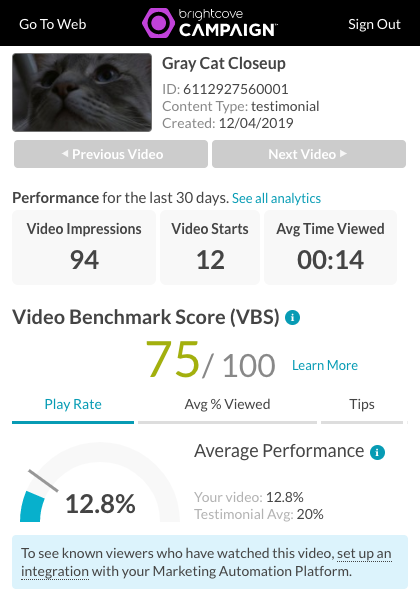
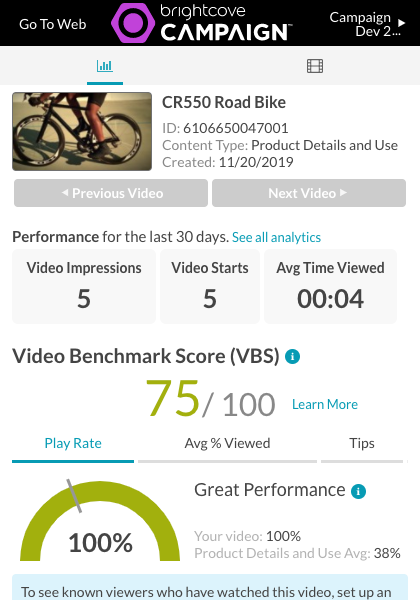
updates to HUD

diff --git a/videos/managing-videos2.html b/videos/managing-videos2.html
@@ -1,0 +1,102 @@
+---
+title: Managing Videos
+parent: Managing Videos
+---
+<article class="bcls-article">
+  <h1>Managing Videos</h1>
+  <section class="bcls-section">
+    <p>To access the videos in the account, login to <a href="https://studio.brightcove.com/products/brightcovecampaign">Brightcove Campaign&trade;</a> and click <strong>Videos</strong> in the navigation header.</p>
+    <figure class="bcls-figure"><img class="bcls-image--no-border" alt="" src="/assets/images/videos/videos-homepage.png" /></figure>
+    <p>The body of the page will display the following:</p>
+    <ul>
+      <li>Video thumbnail and duration </li>
+      <li>Video name</li>
+      <li>Video ID - System assigned video ID (unique across all accounts)</li>
+      <li>Status
+        <ul>
+          <li><img alt="" src="/assets/images/videos/activate-icon.png" /> - Indicates the video is active</li>
+          <li><img alt="" src="/assets/images/videos/deactivate-icon.png" /> - Indicates the video is inactive (can't be played)</li>
+        </ul>
+      </li>
+      <li><a href="/get-started/overview-video-content-types.html">Video Content Type</a></li>
+      <li><a href="#audit">Created date and time and user ID</a></li>
+      <li><a href="#audit">Updated date and time and user ID</a></li>
+    </ul>
+    <p>Multiple videos can be selected by clicking on a checkbox next to the video thumbnail and then shift-clicking on another checkbox. The list of videos can be sorted by clicking on a column header. The Videos page uses a "sticky" sort and will remember the sort selection. When you navigate away and come back or login again, the Videos page  will default to the sort that was last selected.</p>
+    <p>The button bar at the top of the page provides the ability to:</p>
+    <ul>
+      <li><a href="#publish">Publish</a> - Publish videos to a web page or Email</li>
+      <li><a href="#content-type">Edit Content Type</a> - Assign a Video Content Type to videos</li>
+      <li><a href="#upload">Upload</a> - Upload videos to the account</li>
+      <li><a href="#activate">Activate/Deactivate</a> - Activate or Deactivate videos</li>
+      <li><a href="#delete">Delete</a> - Remove videos from the account </li>
+    </ul>
+    <figure class="bcls-figure"><img class="bcls-image--no-border" alt="" src="/assets/images/videos/videos-button-bar.png" /></figure>
+  </section>
+  <section class="bcls-section">
+    <h2 id="edit">Editing video properties</h2>
+    <p>To edit the video properties, click on the video name to open the video properties page. See <a href="/docs/videos/editing-video-properties.html">Editing Video Properties</a> for information on editing video properties.</p>
+  </section>
+  <section class="bcls-section">
+    <h2 id="publish">Publishing videos</h2>
+    <p>The Publish feature in Brightcove Campaign can be used to easily generate the embed code and images needed to distribute a video using a marketing automation platform (MAP). For information on publishing videos, see <a href="/docs/videos/publishing-videos.html">Publishing Videos</a>.</p>
+  </section>
+  <section class="bcls-section">
+    <h2 id="content-type">Editing content types</h2>
+    <p>The <strong>Video Content Type</strong> column on the Videos page displays the Video Content Type for the video. Brightcove uses the Video Content Type to compile your analytics with those of similar videos and provide more robust analytics that includes Brightcove's Video Benchmark Score (VBS) and customized advice. To assign a Video Content Type to one or more videos:</p>
+    <ol class="bcls-tasklist-restart">
+      <li>Select one or more videos by clicking the checkbox next to the video(s).</li>
+      <li>Click <strong>Edit Content Type</strong>.</li>
+      <li>Select a content type for the selected videos.</li>
+      <li>Click <strong>Save</strong>.</li>
+    </ol>
+    <aside class="bcls-aside bcls-aside--information">Note: While Brightcove recommends assigning Video Content Types to all videos, this field can be disabled as part of the <a href="/docs/admin/managing-account-settings.html">account settings</a>.</aside>
+  </section>
+  <section class="bcls-section">
+    <h2 id="upload">Uploading videos</h2>
+    <p>For information on uploading videos to the account, see <a href="/docs/videos/uploading-videos.html">Uploading Videos</a>.</p>
+  </section>
+  <section class="bcls-section">
+    <h2 id="activate">Activating and Deactivating videos</h2>
+    <p>The <strong>Status</strong> column on the Videos page indicates if the video is <strong>Activated</strong> or <strong>Deactivated</strong>.</p>
+    <ul>
+      <li><img alt="" src="/assets/images/videos/activate-icon.png" /> - Indicates the video is active (video can be played)</li>
+      <li><img alt="" src="/assets/images/videos/deactivate-icon.png" /> - Indicates the video is inactive (video can't be played)</li>
+    </ul>
+    <p>To <strong>Activate</strong> a video, select it and then click <strong>Activate</strong>. To <strong>Deactivate</strong> a video, select it and then click <strong>Deactivate</strong>. If the <strong>Status</strong> column is not displayed, use the column selector <img alt="" src="/assets/images/videos/column-selector.png" /> to select it. </p>
+  </section>
+  <section class="bcls-section">
+    <h2 id="share">Sharing videos to other accounts</h2>
+    <p>Media sharing allows publishers with Brightcove Video Cloud accounts to share the videos to Brightcove Campaign accounts. The accounts can be your own, corporate accounts or accounts of other publishers. The video thumbnail will display an arrow in the upper left to indicate  that the video was shared into the account. In the example below, the  Brightcove Overview video was shared into this account.</p>
+    <figure class="bcls-figure"><img class="bcls-image--no-border" alt="" src="/assets/images/videos/sharing-example.png" /></figure>
+    <p>For more information on working with shared videos, see <a href="/docs/videos/working-with-shared-videos.html">Working with Shared Videos</a>.</p>
+  </section>
+  <section class="bcls-section">
+    <h2 id="delete">Deleting videos</h2>
+    <p>To delete videos, click the checkboxes next to the video thumbnails of the videos to delete and then click the delete button (<img alt="" src="/assets/images/videos/delete-icon.png" />). Confirm the delete by clicking the <strong>Delete</strong> button.</p>
+    <figure class="bcls-figure"><img class="bcls-image--no-border" alt="" src="/assets/images/videos/confirm-delete.png" /></figure>
+    <figure class="bcls-figure"></figure>
+    <figure class="bcls-figure"></figure>
+  </section>
+  <section class="bcls-section">
+    <h2 id="audit">Created and updated date and time information</h2>
+    <p>The user ID of the user who created and/or updated the video will be displayed in the Created Date/Updated Date columns. Note that if a user who performed an action is removed from an account, their ID will still appear.</p>
+    <p>There are cases where changes made to a video will not record a user ID and cases where a user ID may not be displayed:</p>
+    <ul>
+      <li>When the video source is replaced, the updated date for the video will be updated but the user who initiated the action will not be recorded</li>
+      <li>When the images (poster/thumbnail) and/or text tracks are updated, the updated date for the video will be updated but the user who initiated the action will not be recorded</li>
+    </ul>
+  </section>
+  <section class="bcls-section">
+    <h2 id="search">Searching for videos</h2>
+    <p>The Search field can be used to search the videos and playlists in your account. For more information, see <a href="/docs/videos/how-to-search-for-videos.html">How to Search for Videos</a>.</p>
+  </section>
+  <section class="bcls-section">
+    <h2 id="columns">Customizing the column display</h2>
+    <p>The columns that appear in the body of the page can be customized by clicking on the columns button (<img alt="" src="/assets/images/videos/column-selector.png" />) and then selecting the columns that should be displayed.</p>
+    <figure class="bcls-figure"><img class="bcls-image--no-border" alt="" src="/assets/images/videos/select-columns.png" /></figure>
+    <p>As more columns are selected, it is possible to horizontally scroll to see all of the columns.</p>
+  </section>
+</article>
+<!-- End of content -->
+</body></html>

diff --git a/analytics/using-hud.html b/analytics/using-hud.html
@@ -6,8 +6,14 @@ parent: Reviewing Analytics
   <h1>Using the Heads-Up Display Chrome Extension</h1>
   <summary>In this topic you will learn how to install and use the Heads-Up Display (HUD) Chrome browser extension.</summary>
   <section class="bcls-section">
-    <p>The Heads-Up Display (HUD) is a Chrome extension that provides the ability to view performance metrics of videos on a live page.</p>
-    <figure class="bcls-figure"><img class="bcls-image--no-border" alt="" src="/assets/images/analytics/hud-analytics.png" /></figure>
+    <p>The Heads-Up Display (HUD) is a Chrome extension that provides the ability to:</p>
+    <ul>
+      <li> View performance metrics of videos on a live page</li>
+      <li>Publish, edit and delete videos in your account</li>
+    </ul>
+    <p>
+      <figure class="bcls-figure"><img class="bcls-image--no-border" alt="" src="/assets/images/analytics/hud-analytics.png" /></figure>
+    </p>
   </section>
   <section class="bcls-section">
     <h2 id="install">Installing the Chrome extension</h2>
@@ -23,7 +29,7 @@ parent: Reviewing Analytics
   </section>
   <section class="bcls-section">
     <h2 id="using">Using the Heads-Up Display</h2>
-    <p>The Heads-Up Display is useful for viewing video analytics when a video that was published using Brightcove Campaign&trade; is on the page. To use the HUD, follow these steps:</p>
+    <p>The Heads-Up Display is useful for viewing video analytics and for publishing, editing and deleting videos in your account. To use the HUD, follow these steps:</p>
     <ol class="bcls-tasklist-restart" style="--s:1">
       <li>Open Google Chrome.</li>
       <li>Click the Brightcove logo next to the address bar to open the extension.
@@ -33,11 +39,16 @@ parent: Reviewing Analytics
         <figure class="bcls-figure"><img class="bcls-image--no-border" alt="" src="/assets/images/analytics/hud-login.png" /></figure>
       </li>
     </ol>
+    <p>Icons at the top of the HUD can be used to:</p>
+    <ul>
+      <li><a href="#analytics">Review analytics</a></li>
+      <li><a href="#videos">Manage videos</a></li>
+    </ul>
     <p>To sign out of the HUD, click <strong>Sign Out</strong> at the top of the HUD. Clicking <strong>Go To Web</strong> will open the Brightcove Campaign application in a browser window.</p>
   </section>
   <section class="bcls-section">
-    <h2 id="limitations">Reviewing HUD analytics</h2>
-    <p>To review analytics for a  video on a page, open the HUD.</p>
+    <h2 id="analytics">Reviewing video analytics</h2>
+    <p>When the HUD is opened, it displays video analytics. You can also click on the analytics icon (<img class="bcls-image--no-border" alt="" src="/assets/images/analytics/hud-analytics-icon.png" />) to go to analytics mode. The HUD will only display analytics for video(s) on the page that  have been published using Brightcove Campaign™.</p>
     <figure class="bcls-figure"><img class="bcls-image--no-border" alt="" src="/assets/images/analytics/hud-analytics.png" /></figure>
     <p>The HUD will display basic information about the video(s) on the page:</p>
     <ul>
@@ -52,11 +63,30 @@ parent: Reviewing Analytics
       <li><strong>Video Impressions</strong> - The number of times the video was loaded and ready for playback</li>
       <li><strong>Video Starts</strong> - The number of times the video started playing</li>
       <li><strong>Avg Time Viewed</strong> - Total Time Viewed / Video Starts</li>
-      <li><strong>Video Benchmark Score</strong> - Overall rating that measures how your video is performing (<a href="/docs/analytics/how-vbs-calculated.html">learn more...</a>)</li>
+      <li><strong>Video Benchmark Score</strong> - Overall rating that measures how your video is performing (<a href="/analytics/how-vbs-calculated.html">learn more...</a>)</li>
       <li><strong>Play Rate</strong> - Video Starts / Video Impressions</li>
       <li><strong>Avg % Viewed</strong> - Average Time Viewed / Video length</li>
       <li><strong>Tips</strong> - Coming Soon</li>
     </ul>
     <p>To see all analytics for the video, click the <strong>See all analytics</strong> link.</p>
+  </section>
+  <section class="bcls-section">
+    <h2 id="videos">Managing videos</h2>
+    <p>To use the HUD to manage and publish videos in your account, click on the videos icon (<img class="bcls-image--no-border" alt="" src="/assets/images/analytics/hud-video-icon.png" />) . A list of videos in the account will appear.</p>
+    <figure class="bcls-figure"><img class="bcls-image--no-border" alt="" src="/assets/images/analytics/hud-videos.png" /></figure>
+    <p>Hovering over a video will display a series of buttons which provide the ability to:</p>
+    <ul>
+      <li><a href="#publish">Publish the video</a></li>
+      <li><a href="#edit">Edit the video</a></li>
+      <li><a href="#delete">Delete the video</a></li>
+    </ul>
+    <figure class="bcls-figure"><img class="bcls-image--no-border" alt="" src="/assets/images/analytics/hud-videos-hover.png" /></figure>
+    <h3 id="publish">Publishing videos</h3>
+    <p>Hover over a video and click <strong>Publish</strong>. Select a destination, <strong>Web Page</strong> or <strong>Email</strong>. The wizard will walk you through the process to generate the embed code or to get the video thumbnail for use in an email message. For more information on the publishing options, see <a href="/videos/publishing-videos.html">Publishing Videos</a>.</p>
+    <h3 id="edit">Editing videos</h3>
+    <p>Hover over a video and click <strong>Edit</strong>. Edit the video properties as needed and then click <strong>Save</strong>.</p>
+    <figure class="bcls-figure"><img class="bcls-image--no-border" alt="" src="/assets/images/analytics/hud-video-edit.png" /></figure>
+    <h3 id="delete">Deleting videos</h3>
+    <p>Hover over a video and click <strong>Delete</strong>. You will be prompted to confirm the delete.</p>
   </section>
 </article>

diff --git a/release-notes/2020.html b/release-notes/2020.html
@@ -7,6 +7,29 @@ description: Brightcove Campaign Release Notes
   <h1>Brightcove Campaign&trade; Product Updates</h1>
   <summary>This topic outlines the updates that have been made to the Brightcove Engage application.</summary>
   <section class="bcls-section">
+      <h2>Chrome Extension 2.0</h2>
+    <h4> 30 Mar 2020</h4>
+    <ul>
+      <li> Modified feature flag, enabled publish/videos list views</li>
+      <li>Removed duplicate video ids when querying content types</li>
+      <li>Added code to stick tooltip to bounds of gauge component</li>
+      <li>Publish UI: Added lead Fforms support to Connections page</li>
+      <li>Adding an extra sleep</li>
+      <li>Add support for BC_ACCOUNT cookie</li>
+      <li>Update campaign-common library to v1.0.1</li>
+      <li>Adjusted video data structure so it contains created_at, not published_at</li>
+      <li>Avoid unneeded content type calls        </li>
+      <li>Restructured CSS, added redux handling of analytics load state</li>
+    </ul>
+    <hr />
+      <h2>v 1.1.0</h2>
+    <h4> 25 Mar 2020</h4>
+    <ul>
+      <li>Format created dates based on current language</li>
+      <li> Fix statbox sizing on Analytics page at certain browser sizes in IE11</li>
+      <li> Updated dashboard to show correct created date</li>
+    </ul>
+<hr/>
     <h2>v 1.0.6</h2>
     <h4> 10 Mar 2020</h4>
     <ul>
